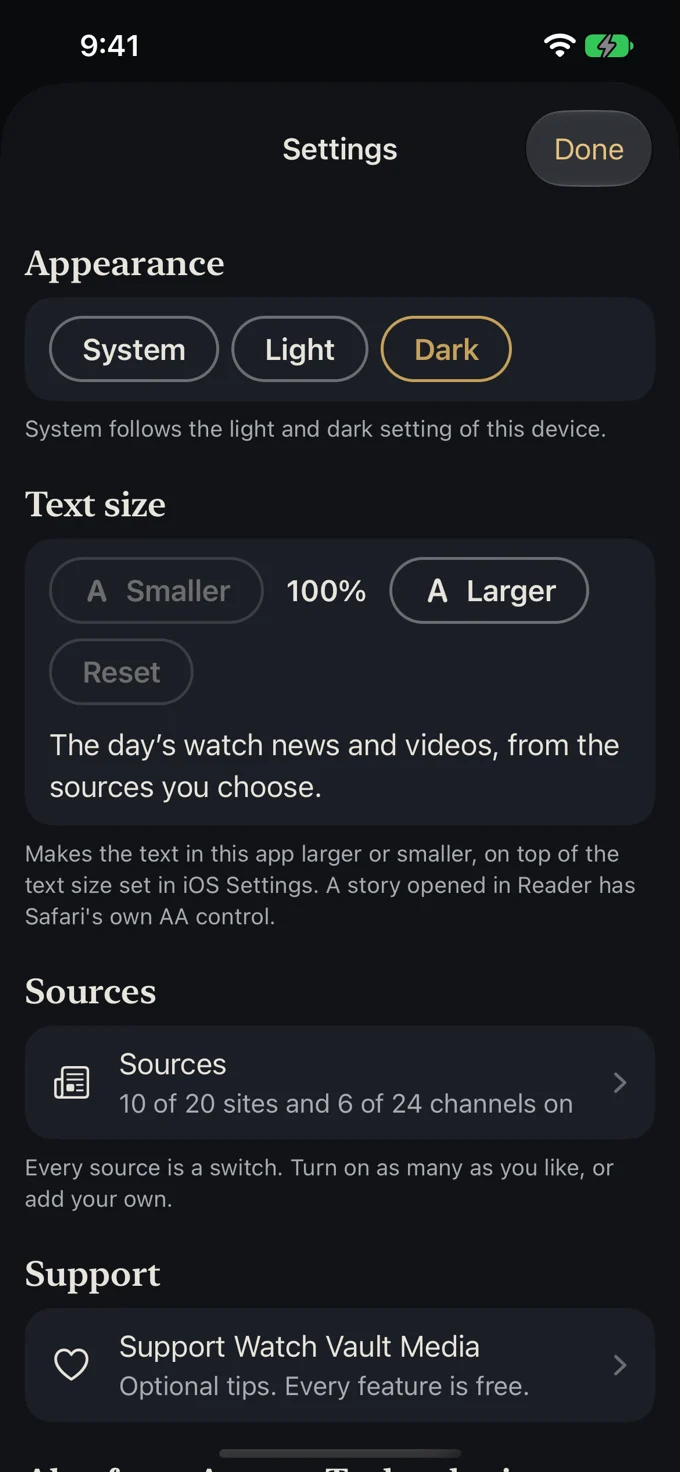
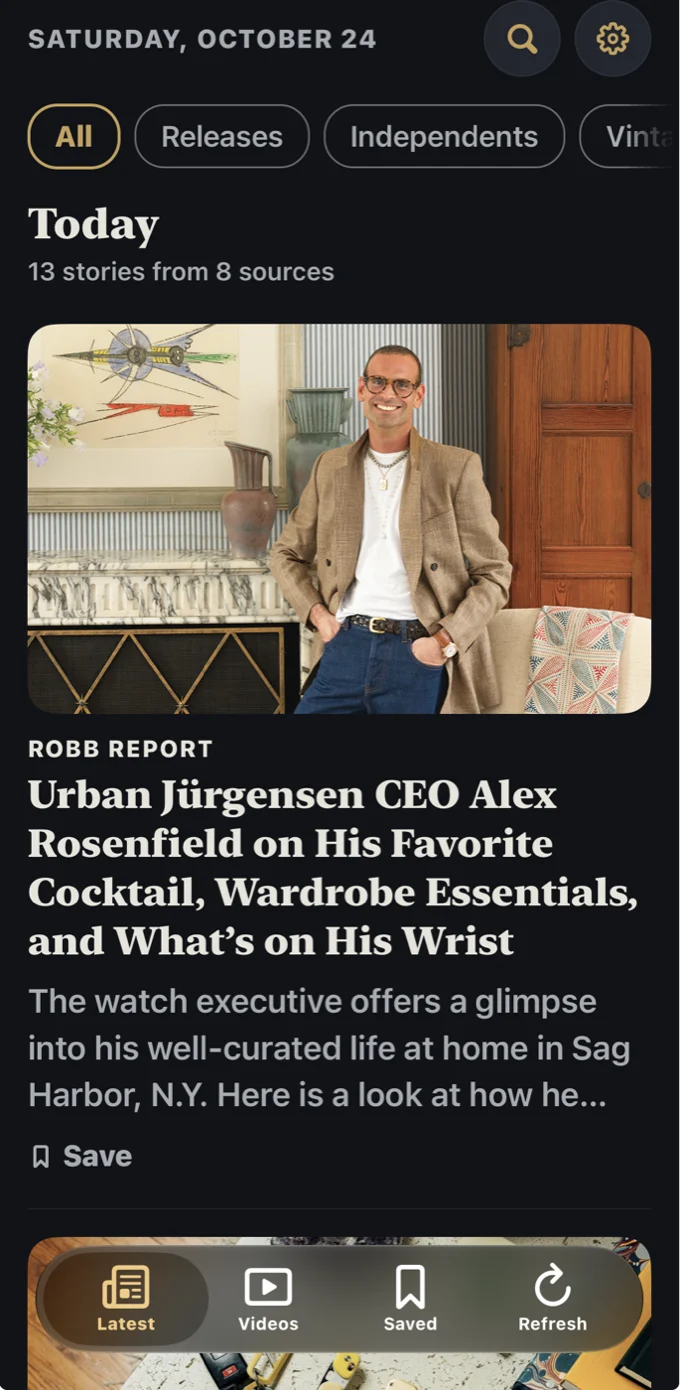
Media picture: the Latest screen with its stories
Brad, 2026-10-24: "i want the content". The Media site's own hero, the
Latest screen with today's stories, replaces the Settings screen on Home and
Products, captioned as a screenshot whose stories and pictures belong to
their publishers.

diff --git a/public/index.html b/public/index.html
@@ -287,9 +287,9 @@
         <p class="status"><span>Coming soon</span></p>
         <figure class="figure">
           <div class="stage">
-            <img class="phone" src="/img/watch-vault-media.webp" width="340" height="736" alt="The Watch Vault Media Settings screen on an iPhone: appearance, text size, the sources switched on, and optional tips.">
+            <img class="phone" src="/img/watch-vault-media.webp" width="340" height="695" alt="The Watch Vault Media Latest screen on an iPhone: topic buttons along the top, then today&rsquo;s stories, newest first, each with its publisher&rsquo;s picture, headline and short summary.">
           </div>
-          <figcaption class="caption caption-inset">A screenshot of the app&rsquo;s Settings.</figcaption>
+          <figcaption class="caption caption-inset">A screenshot. Stories and pictures belong to their publishers.</figcaption>
         </figure>
         <p class="entry-line">Gathers the watch news a collector reads.</p>
         <p class="entry-text">The latest stories and videos from sites and channels chosen for watch collectors, in one list, newest first. Each story opens where its publisher put it. Every feature is free: no account, no advertising, no tracking.</p>

diff --git a/src/pages/index.html b/src/pages/index.html
@@ -133,9 +133,9 @@ modified: 2026-10-24
         {{include:status-media}}
         <figure class="figure">
           <div class="stage">
-            <img class="phone" src="/img/watch-vault-media.webp" width="340" height="736" alt="The Watch Vault Media Settings screen on an iPhone: appearance, text size, the sources switched on, and optional tips.">
+            <img class="phone" src="/img/watch-vault-media.webp" width="340" height="695" alt="The Watch Vault Media Latest screen on an iPhone: topic buttons along the top, then today&rsquo;s stories, newest first, each with its publisher&rsquo;s picture, headline and short summary.">
           </div>
-          <figcaption class="caption caption-inset">A screenshot of the app&rsquo;s Settings.</figcaption>
+          <figcaption class="caption caption-inset">A screenshot. Stories and pictures belong to their publishers.</figcaption>
         </figure>
         <p class="entry-line">Gathers the watch news a collector reads.</p>
         <p class="entry-text">The latest stories and videos from sites and channels chosen for watch collectors, in one list, newest first. Each story opens where its publisher put it. Every feature is free: no account, no advertising, no tracking.</p>

diff --git a/src/pages/products.html b/src/pages/products.html
@@ -140,8 +140,8 @@ modified: 2026-10-24
       <p class="doclinks"><a class="link link-tap" href="https://watchvaultmedia.com/terms">Watch Vault Media Terms of Service</a> <a class="link link-tap" href="https://watchvaultmedia.com/privacy">Watch Vault Media Privacy Policy</a></p>
     </div>
     <figure class="product-art col-4">
-      <img class="phone-whole" src="/img/watch-vault-media.webp" width="340" height="736" alt="The Watch Vault Media Settings screen on an iPhone: appearance, text size, the sources switched on, and optional tips.">
-      <figcaption class="caption">A screenshot of the app&rsquo;s Settings.</figcaption>
+      <img class="phone-whole" src="/img/watch-vault-media.webp" width="340" height="695" alt="The Watch Vault Media Latest screen on an iPhone: topic buttons along the top, then today&rsquo;s stories, newest first, each with its publisher&rsquo;s picture, headline and short summary.">
+      <figcaption class="caption">A screenshot. Stories and pictures belong to their publishers.</figcaption>
     </figure>
   </div>
 </section>

diff --git a/public/products/index.html b/public/products/index.html
@@ -294,8 +294,8 @@
       <p class="doclinks"><a class="link link-tap" href="https://watchvaultmedia.com/terms">Watch Vault Media Terms of Service</a> <a class="link link-tap" href="https://watchvaultmedia.com/privacy">Watch Vault Media Privacy Policy</a></p>
     </div>
     <figure class="product-art col-4">
-      <img class="phone-whole" src="/img/watch-vault-media.webp" width="340" height="736" alt="The Watch Vault Media Settings screen on an iPhone: appearance, text size, the sources switched on, and optional tips.">
-      <figcaption class="caption">A screenshot of the app&rsquo;s Settings.</figcaption>
+      <img class="phone-whole" src="/img/watch-vault-media.webp" width="340" height="695" alt="The Watch Vault Media Latest screen on an iPhone: topic buttons along the top, then today&rsquo;s stories, newest first, each with its publisher&rsquo;s picture, headline and short summary.">
+      <figcaption class="caption">A screenshot. Stories and pictures belong to their publishers.</figcaption>
     </figure>
   </div>
 </section>
